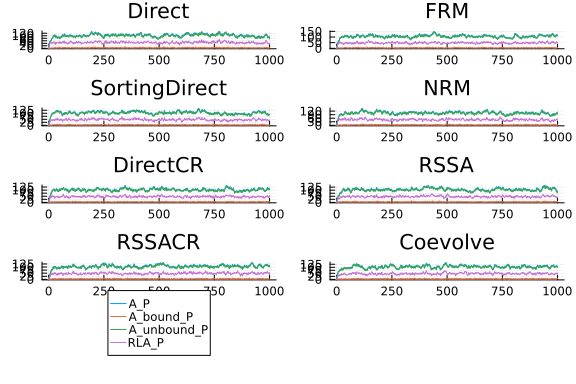
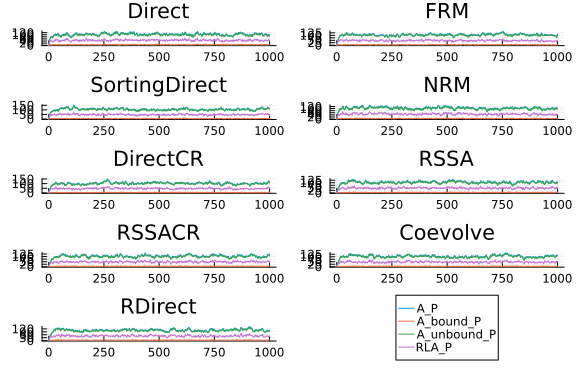
Automatic build\nPublished by build of: https://github.com/SciML/SciMLBenchmarks.jl/commit/55a64c1e650f974c5956763bd1462ce81c6bed40

Changed region(s): [[0.0, 0.0625, 1.0, 0.9375]]

diff --git a/markdown/Jumps/Mendes_multistate_example.md b/markdown/Jumps/Mendes_multistate_example.md
@@ -54,7 +54,7 @@ reactions(rn)
 
 # Plot solutions by each method
 ```julia
-methods = (Direct(), FRM(), SortingDirect(), NRM(), DirectCR(), RSSA(), RSSACR(), Coevolve())
+methods = (Direct(), FRM(), SortingDirect(), NRM(), DirectCR(), RSSA(), RSSACR(), Coevolve(), RDirect())
 shortlabels = [string(leg)[15:end-2] for leg in methods]
 tf      = 10.0 * jprob.tstop
 prob    = DiscreteProblem(rn, jprob.u0, (0.0, tf), jprob.rates)
@@ -178,7 +178,6 @@ Platform Info:
 Environment:
   JULIA_CPU_THREADS = 128
   JULIA_DEPOT_PATH = /cache/julia-buildkite-plugin/depots/5b300254-1738-4989-ae0a-f4d2d937f953
-  JULIA_IMAGE_THREADS = 1
 
 ```
 
@@ -190,18 +189,18 @@ Status `/cache/build/exclusive-amdci1-0/julialang/scimlbenchmarks-dot-jl/benchma
 ⌃ [479239e8] Catalyst v13.3.0
   [8f4d0f93] Conda v1.9.1
   [a93c6f00] DataFrames v1.6.1
-  [0c46a032] DifferentialEquations v7.9.0
+⌃ [0c46a032] DifferentialEquations v7.9.0
   [31c24e10] Distributions v0.25.100
   [86223c79] Graphs v1.8.0
   [faf0f6d7] JumpProblemLibrary v0.1.4
   [ccbc3e58] JumpProcesses v9.7.3
-  [961ee093] ModelingToolkit v8.66.0
+⌃ [961ee093] ModelingToolkit v8.66.0
   [1dea7af3] OrdinaryDiffEq v6.55.0
   [86206cdf] PiecewiseDeterministicMarkovProcesses v0.0.7
   [91a5bcdd] Plots v1.39.0
   [438e738f] PyCall v1.96.1
   [31c91b34] SciMLBenchmarks v0.1.3
-  [c3572dad] Sundials v4.19.3
+⌃ [c3572dad] Sundials v4.19.3
   [37e2e46d] LinearAlgebra
   [9a3f8284] Random
   [10745b16] Statistics v1.9.0
@@ -213,22 +212,22 @@ And the full manifest:
 
 ```
 Status `/cache/build/exclusive-amdci1-0/julialang/scimlbenchmarks-dot-jl/benchmarks/Jumps/Manifest.toml`
-  [47edcb42] ADTypes v0.2.1
-  [c3fe647b] AbstractAlgebra v0.31.1
+⌃ [47edcb42] ADTypes v0.2.1
+⌅ [c3fe647b] AbstractAlgebra v0.31.1
   [1520ce14] AbstractTrees v0.4.4
   [79e6a3ab] Adapt v3.6.2
   [ec485272] ArnoldiMethod v0.2.0
   [4fba245c] ArrayInterface v7.4.11
   [30b0a656] ArrayInterfaceCore v0.1.29
-  [4c555306] ArrayLayouts v1.3.0
+⌃ [4c555306] ArrayLayouts v1.3.0
   [aae01518] BandedMatrices v0.17.38
   [6e4b80f9] BenchmarkTools v1.3.2
-  [e2ed5e7c] Bijections v0.1.4
+⌃ [e2ed5e7c] Bijections v0.1.4
   [d1d4a3ce] BitFlags v0.1.7
   [62783981] BitTwiddlingConvenienceFunctions v0.1.5
 ⌅ [764a87c0] BoundaryValueDiffEq v3.0.0
   [fa961155] CEnum v0.4.2
-  [2a0fbf3d] CPUSummary v0.2.3
+⌃ [2a0fbf3d] CPUSummary v0.2.3
   [00ebfdb7] CSTParser v3.3.6
   [49dc2e85] Calculus v0.5.1
 ⌃ [479239e8] Catalyst v13.3.0
@@ -247,7 +246,7 @@ Status `/cache/build/exclusive-amdci1-0/julialang/scimlbenchmarks-dot-jl/benchma
   [b152e2b5] CompositeTypes v0.1.3
   [f0e56b4a] ConcurrentUtilities v2.2.1
   [8f4d0f93] Conda v1.9.1
-  [187b0558] ConstructionBase v1.5.3
+⌃ [187b0558] ConstructionBase v1.5.3
   [d38c429a] Contour v0.6.2
   [adafc99b] CpuId v0.3.1
   [a8cc5b0e] Crayons v4.1.1
@@ -257,21 +256,21 @@ Status `/cache/build/exclusive-amdci1-0/julialang/scimlbenchmarks-dot-jl/benchma
   [e2d170a0] DataValueInterfaces v1.0.0
   [bcd4f6db] DelayDiffEq v5.42.0
   [8bb1440f] DelimitedFiles v1.9.1
-  [2b5f629d] DiffEqBase v6.128.2
+⌃ [2b5f629d] DiffEqBase v6.128.2
   [459566f4] DiffEqCallbacks v2.29.1
   [77a26b50] DiffEqNoiseProcess v5.18.0
   [163ba53b] DiffResults v1.1.0
   [b552c78f] DiffRules v1.15.1
-  [0c46a032] DifferentialEquations v7.9.0
+⌃ [0c46a032] DifferentialEquations v7.9.0
   [b4f34e82] Distances v0.10.9
   [31c24e10] Distributions v0.25.100
   [ffbed154] DocStringExtensions v0.9.3
   [5b8099bc] DomainSets v0.6.7
   [fa6b7ba4] DualNumbers v0.6.8
-  [7c1d4256] DynamicPolynomials v0.5.2
+⌃ [7c1d4256] DynamicPolynomials v0.5.2
   [4e289a0a] EnumX v1.0.4
   [460bff9d] ExceptionUnwrapping v0.1.9
-  [d4d017d3] ExponentialUtilities v1.24.0
+⌃ [d4d017d3] ExponentialUtilities v1.24.0
   [e2ba6199] ExprTools v0.1.10
   [c87230d0] FFMPEG v0.4.1
   [7034ab61] FastBroadcast v0.2.6
@@ -293,7 +292,7 @@ Status `/cache/build/exclusive-amdci1-0/julialang/scimlbenchmarks-dot-jl/benchma
   [42e2da0e] Grisu v1.0.2
   [0b43b601] Groebner v0.4.2
   [d5909c97] GroupsCore v0.4.0
-  [cd3eb016] HTTP v1.9.14
+⌃ [cd3eb016] HTTP v1.9.14
   [eafb193a] Highlights v0.5.2
   [3e5b6fbb] HostCPUFeatures v0.1.16
   [34004b35] HypergeometricFunctions v0.3.23
@@ -309,10 +308,10 @@ Status `/cache/build/exclusive-amdci1-0/julialang/scimlbenchmarks-dot-jl/benchma
   [1019f520] JLFzf v0.1.5
   [692b3bcd] JLLWrappers v1.5.0
   [682c06a0] JSON v0.21.4
-  [98e50ef6] JuliaFormatter v1.0.35
+⌃ [98e50ef6] JuliaFormatter v1.0.35
   [faf0f6d7] JumpProblemLibrary v0.1.4
   [ccbc3e58] JumpProcesses v9.7.3
-  [ef3ab10e] KLU v0.4.0
+⌃ [ef3ab10e] KLU v0.4.0
   [ba0b0d4f] Krylov v0.9.4
   [7f56f5a3] LSODA v0.7.4
   [b964fa9f] LaTeXStrings v1.3.0
@@ -333,11 +332,11 @@ Status `/cache/build/exclusive-amdci1-0/julialang/scimlbenchmarks-dot-jl/benchma
   [739be429] MbedTLS v1.1.7
   [442fdcdd] Measures v0.3.2
   [e1d29d7a] Missings v1.1.0
-  [961ee093] ModelingToolkit v8.66.0
+⌃ [961ee093] ModelingToolkit v8.66.0
   [46d2c3a1] MuladdMacro v0.2.4
-  [102ac46a] MultivariatePolynomials v0.5.1
+⌃ [102ac46a] MultivariatePolynomials v0.5.1
   [ffc61752] Mustache v1.0.17
-  [d8a4904e] MutableArithmetics v1.3.1
+⌃ [d8a4904e] MutableArithmetics v1.3.1
   [d41bc354] NLSolversBase v7.8.3
   [2774e3e8] NLsolve v4.5.1
   [77ba4419] NaNMath v1.0.2
@@ -373,7 +372,7 @@ Status `/cache/build/exclusive-amdci1-0/julialang/scimlbenchmarks-dot-jl/benchma
   [e6cf234a] RandomNumbers v1.5.3
   [3cdcf5f2] RecipesBase v1.3.4
   [01d81517] RecipesPipeline v0.6.12
-  [731186ca] RecursiveArrayTools v2.38.7
+⌃ [731186ca] RecursiveArrayTools v2.38.7
   [f2c3362d] RecursiveFactorization v0.2.20
   [189a3867] Reexport v1.2.2
   [05181044] RelocatableFolders v1.0.0
@@ -384,7 +383,7 @@ Status `/cache/build/exclusive-amdci1-0/julialang/scimlbenchmarks-dot-jl/benchma
   [fdea26ae] SIMD v3.4.5
   [94e857df] SIMDTypes v0.1.0
   [476501e8] SLEEFPirates v0.6.39
-  [0bca4576] SciMLBase v1.95.0
+⌃ [0bca4576] SciMLBase v1.95.0
   [31c91b34] SciMLBenchmarks v0.1.3
   [e9a6253c] SciMLNLSolve v0.1.8
   [c0aeaf25] SciMLOperators v0.3.6
@@ -399,25 +398,25 @@ Status `/cache/build/exclusive-amdci1-0/julialang/scimlbenchmarks-dot-jl/benchma
   [66db9d55] SnoopPrecompile v1.0.3
   [b85f4697] SoftGlobalScope v1.1.0
   [a2af1166] SortingAlgorithms v1.1.1
-  [47a9eef4] SparseDiffTools v2.5.1
+⌃ [47a9eef4] SparseDiffTools v2.5.1
   [e56a9233] Sparspak v0.3.9
   [276daf66] SpecialFunctions v2.3.1
   [aedffcd0] Static v0.8.8
   [0d7ed370] StaticArrayInterface v1.4.1
-  [90137ffa] StaticArrays v1.6.2
+⌃ [90137ffa] StaticArrays v1.6.2
   [1e83bf80] StaticArraysCore v1.4.2
-  [82ae8749] StatsAPI v1.6.0
+⌃ [82ae8749] StatsAPI v1.6.0
 ⌅ [2913bbd2] StatsBase v0.33.21
   [4c63d2b9] StatsFuns v1.3.0
   [9672c7b4] SteadyStateDiffEq v1.16.0
   [789caeaf] StochasticDiffEq v6.62.0
   [7792a7ef] StrideArraysCore v0.4.17
   [69024149] StringEncodings v0.3.7
-  [892a3eda] StringManipulation v0.3.0
-  [c3572dad] Sundials v4.19.3
+⌃ [892a3eda] StringManipulation v0.3.0
+⌃ [c3572dad] Sundials v4.19.3
   [2efcf032] SymbolicIndexingInterface v0.2.2
-  [d1185830] SymbolicUtils v1.2.0
-  [0c5d862f] Symbolics v5.5.1
+⌃ [d1185830] SymbolicUtils v1.2.0
+⌃ [0c5d862f] Symbolics v5.5.1
   [3783bdb8] TableTraits v1.0.1
   [bd369af6] Tables v1.10.1
   [62fd8b95] TensorCore v0.1.1
@@ -454,7 +453,7 @@ Status `/cache/build/exclusive-amdci1-0/julialang/scimlbenchmarks-dot-jl/benchma
   [d2c73de3] GR_jll v0.72.9+1
   [78b55507] Gettext_jll v0.21.0+0
   [f8c6e375] Git_jll v2.36.1+2
-  [7746bdde] Glib_jll v2.74.0+2
+⌃ [7746bdde] Glib_jll v2.74.0+2
   [3b182d85] Graphite2_jll v1.3.14+0
   [2e76f6c2] HarfBuzz_jll v2.8.1+1
   [aacddb02] JpegTurbo_jll v2.1.91+0
